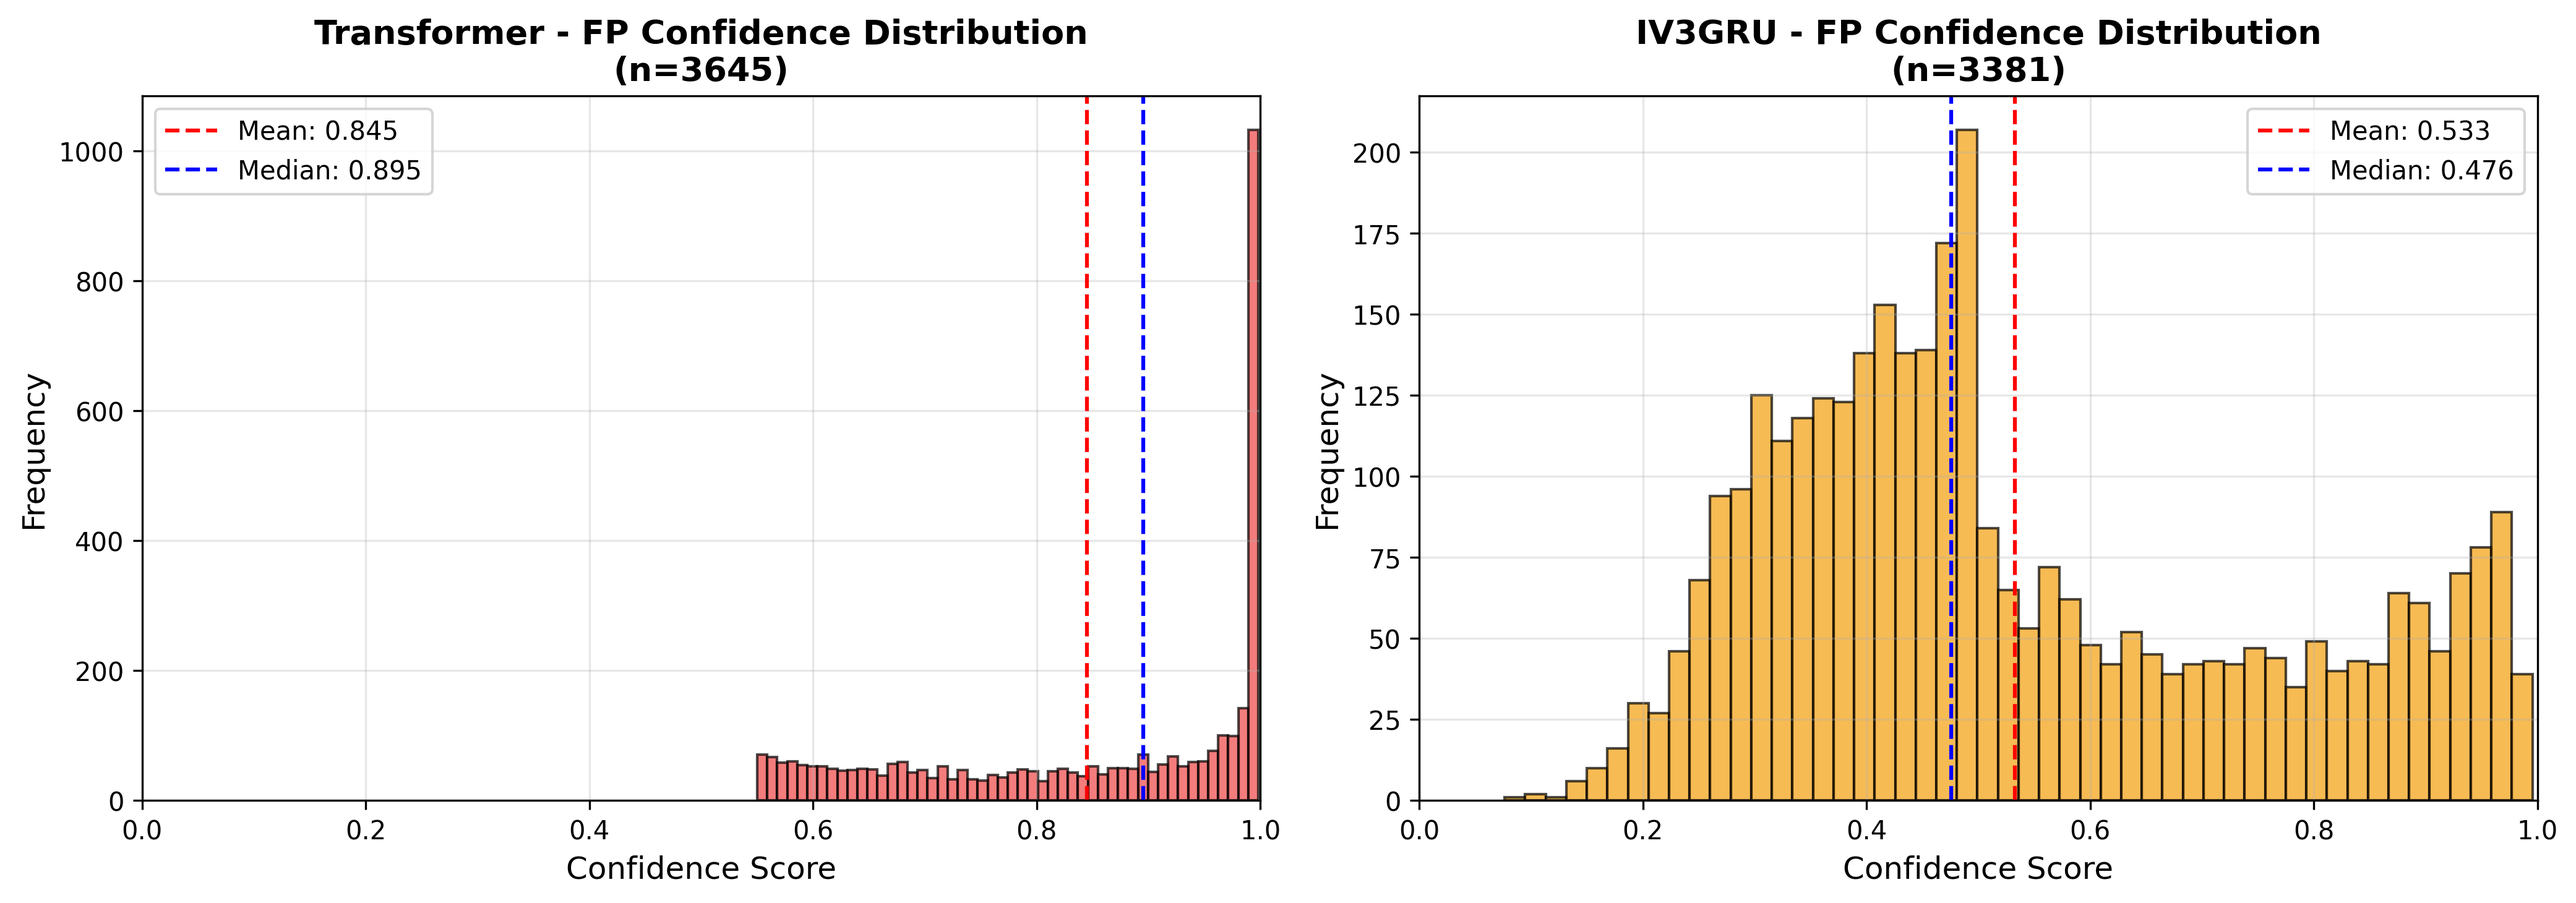
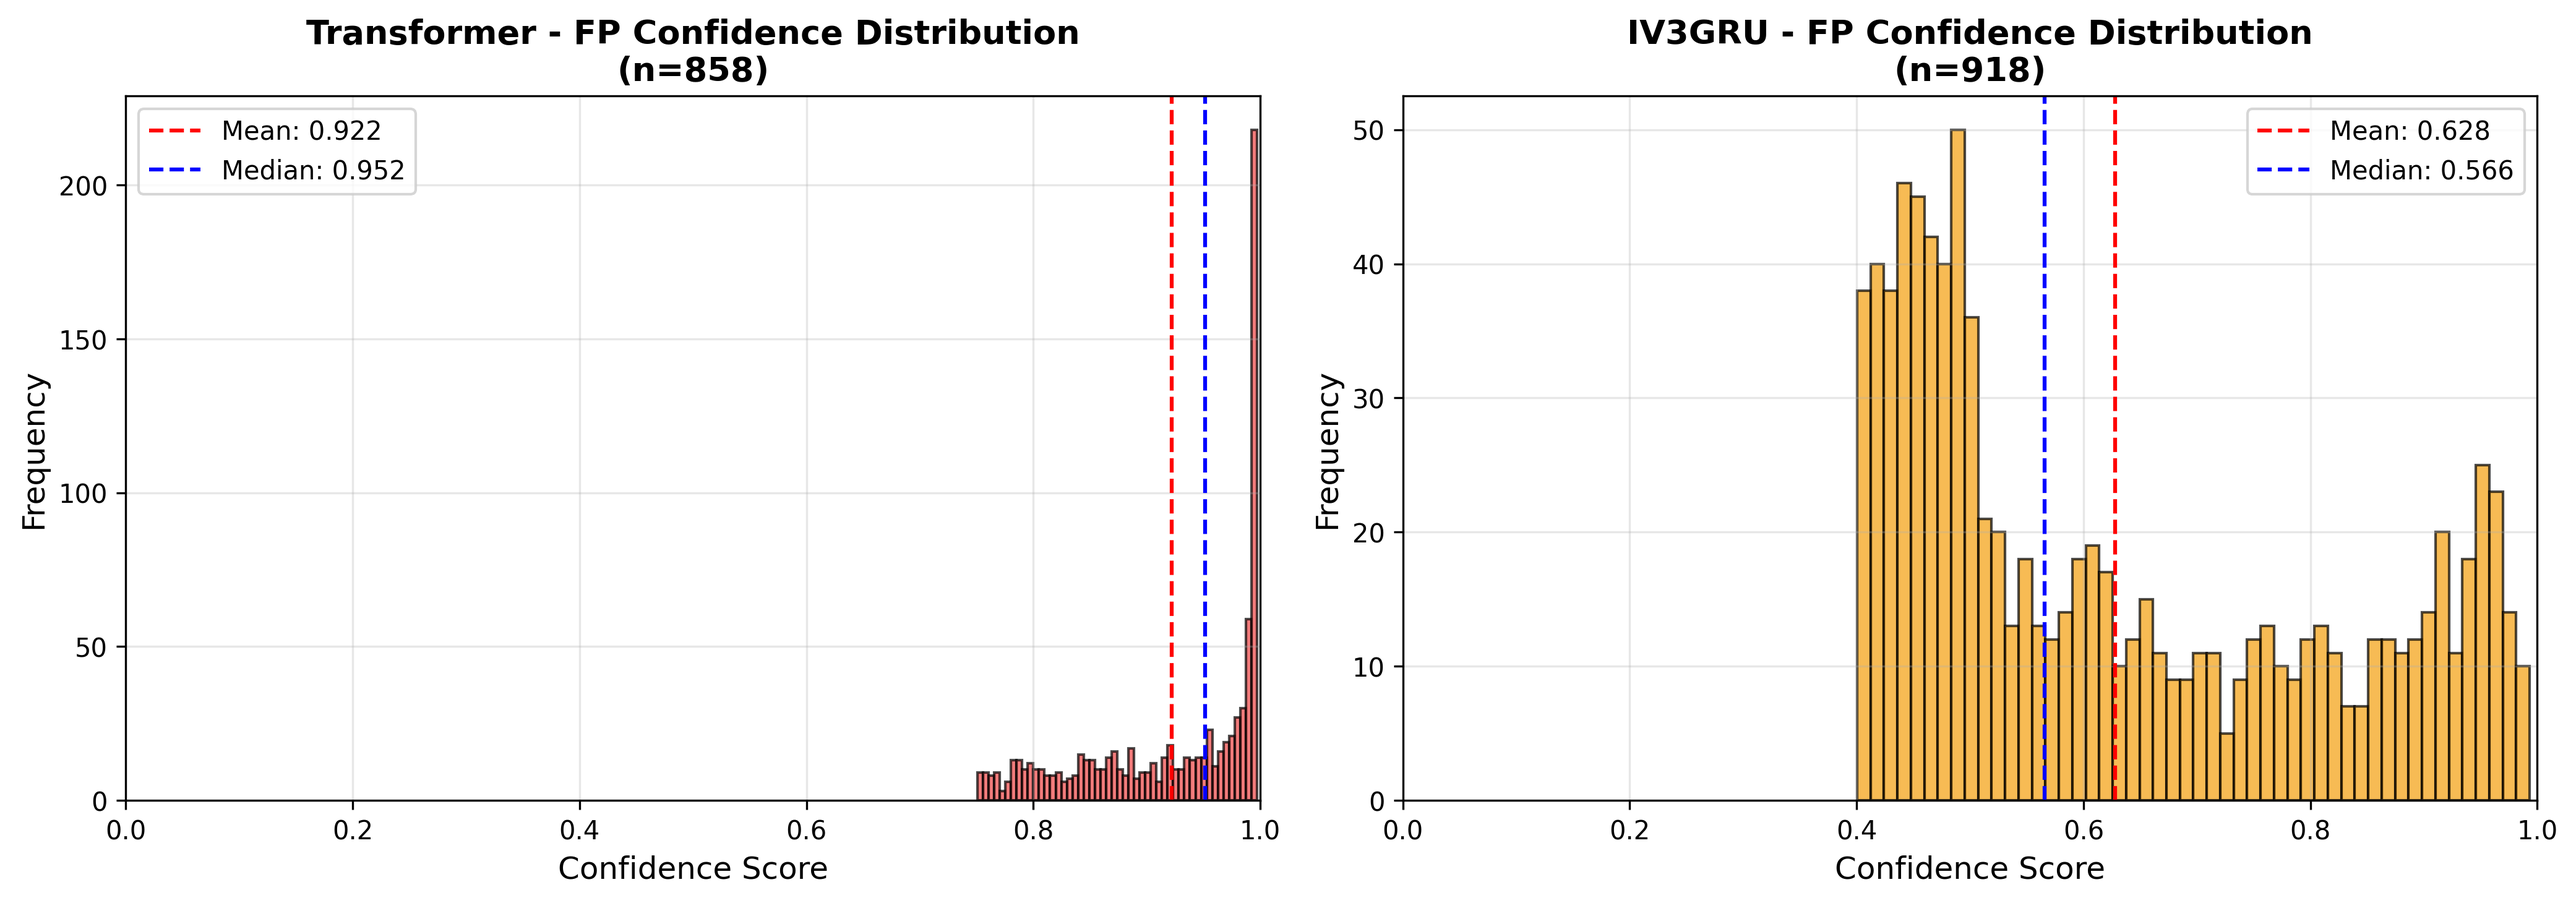
Update confusion matrix images and effect size metrics
- Updated binary images for confusion matrix statistics: `fn_statistics.png`, `fp_confidence_distribution.png`, `tp_confidence_distribution.png`, and `iou_comparison.png`.
- Revised CSV files for effect size metrics: `category_tp_fp_fn_counts.csv` and `gloss_tp_fp_fn_counts.csv`, reflecting new data and structure.
- Adjusted the output directory in `effect_size_chart.py` to ensure correct file paths for loading recognition and classification statistics.

diff --git a/metrics/stat test/effect size/effect_size_chart.py b/metrics/stat test/effect size/effect_size_chart.py
@@ -58,7 +58,7 @@ plt.rcParams.update({
 
 # Directory for output
 output_dir = os.path.dirname(os.path.abspath(__file__))
-effect_size_dir = os.path.join(output_dir, 'effect size')
+effect_size_dir = output_dir
 os.makedirs(effect_size_dir, exist_ok=True)
 
 
@@ -289,8 +289,10 @@ def main():
         sys.stdout.flush()
         
         # Load data
-        recognition_file = os.path.join(output_dir, 'recognition', 'Recognition-StatsResults.csv')
-        classification_file = os.path.join(output_dir, 'classification', 'Classification-StatsResults.csv')
+        # CSV files are in parent directory (stat test), not in effect size subdirectory
+        stat_test_dir = os.path.dirname(output_dir)
+        recognition_file = os.path.join(stat_test_dir, 'recognition', 'Recognition-StatsResults.csv')
+        classification_file = os.path.join(stat_test_dir, 'classification', 'Classification-StatsResults.csv')
         
         if not os.path.exists(recognition_file):
             raise FileNotFoundError(f"Recognition file not found: {recognition_file}")
